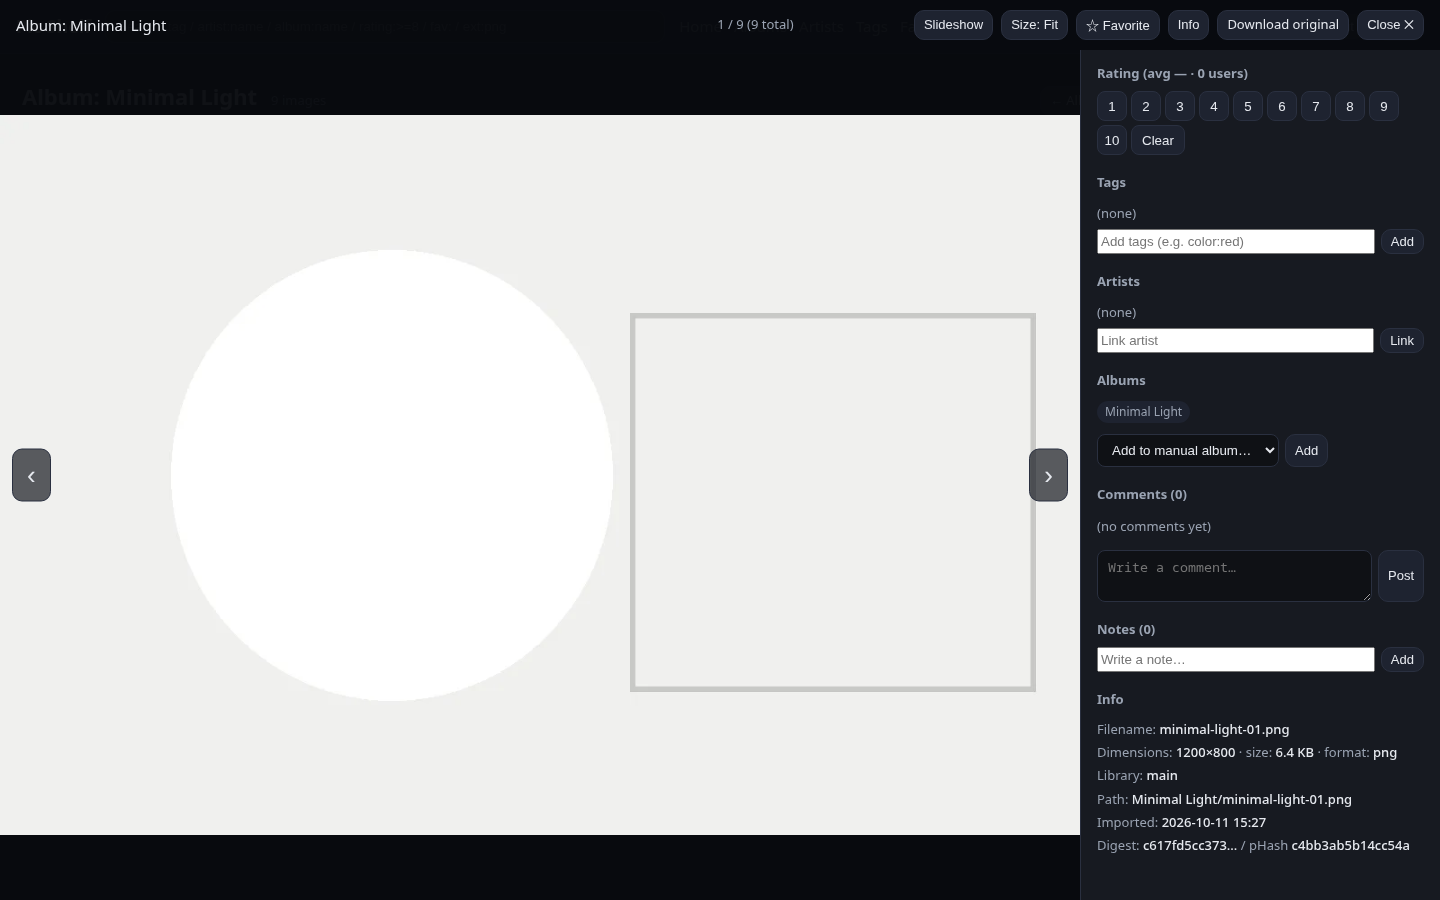
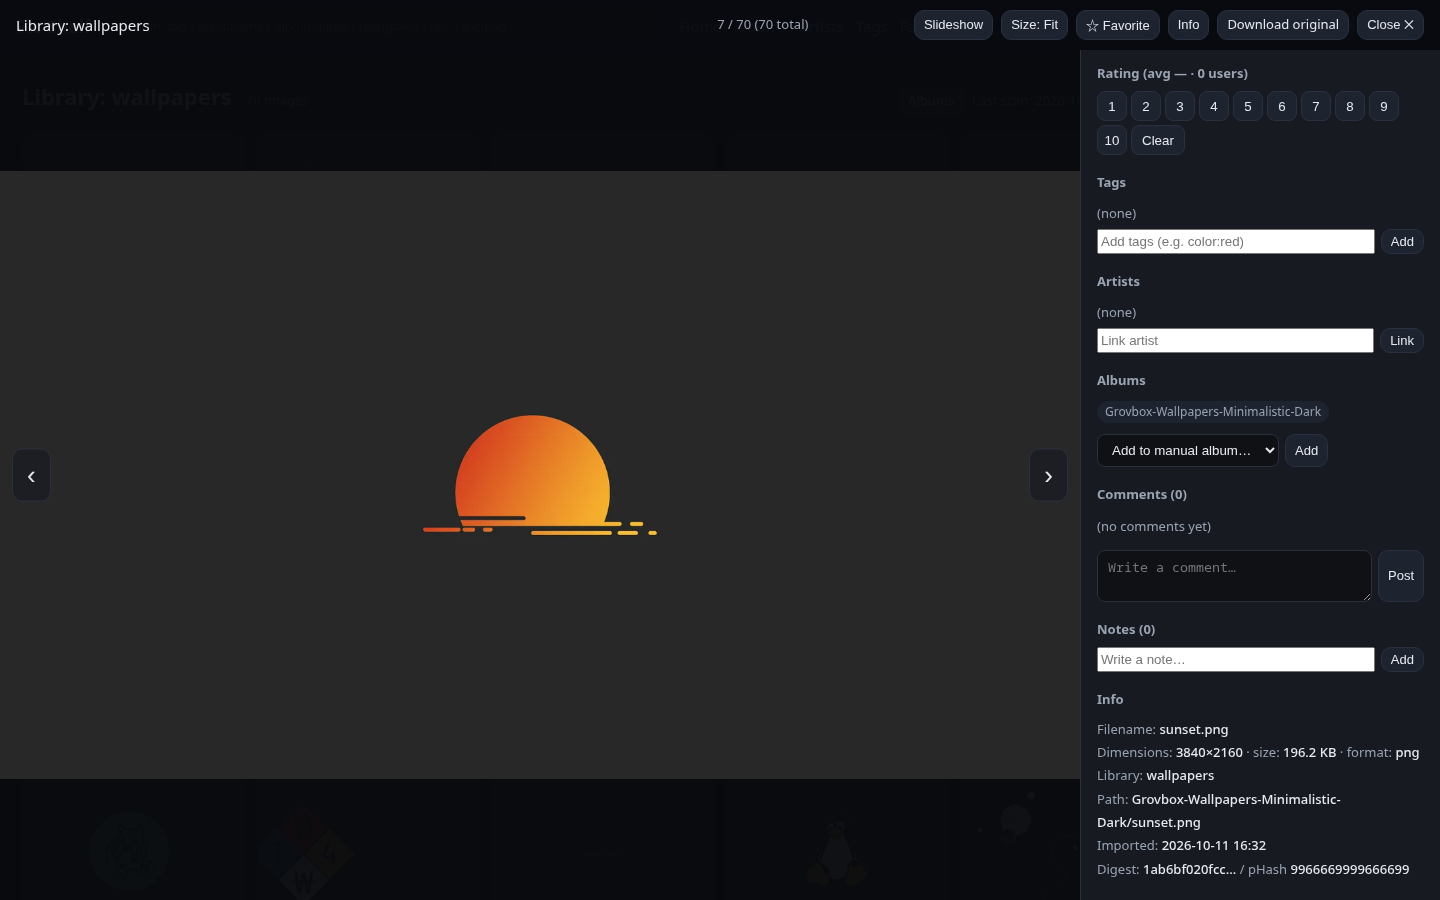
docs: use real wallpaper library for README previews
- Replace synthetic demo captures with screenshots from a real wallpaper collection (Grovbox / Catppuccin)
- Library view (EN + ZH) plus viewer (EN); drop the old album-page shots

diff --git a/README.zh-CN.md b/README.zh-CN.md
@@ -5,7 +5,7 @@
 自托管图片库：导入 → 编码（哈希 / 缩略图）→ 检索 / 评分 / Tag / 艺术家 → 规则化播放。
 三端界面：**Web**（浏览器）/ **TUI**（终端）/ **CLI**（命令行，可将播放队列直接交给 mpv）。桌面端规划中。
 
-![Pic Shelf — 专辑页](docs/screenshots/2026-10-11-album-page-zh.png)
+![Pic Shelf — 库页面](docs/screenshots/2026-10-11-library-zh.png)
 ![Pic Shelf — 查看器（英文界面示例）](docs/screenshots/2026-10-11-viewer-en.png)
 
 > 调研与竞品分析：`docs/research/2026-10-11-open-source-image-viewers.md`

diff --git a/README.md b/README.md
@@ -5,7 +5,7 @@
 Self-hosted image library: import → encode (hash / thumbnails) → search / rate / tag / artists → rule-based playback.
 Three frontends: **Web** (browser) / **TUI** (terminal) / **CLI** (command line — hand the playback queue straight to mpv). Desktop client planned.
 
-![Pic Shelf — album page](docs/screenshots/2026-10-11-album-page-en.png)
+![Pic Shelf — library](docs/screenshots/2026-10-11-library-en.png)
 ![Pic Shelf — viewer](docs/screenshots/2026-10-11-viewer-en.png)
 
 > Research & competitive analysis: `docs/research/2026-10-11-open-source-image-viewers.md`
